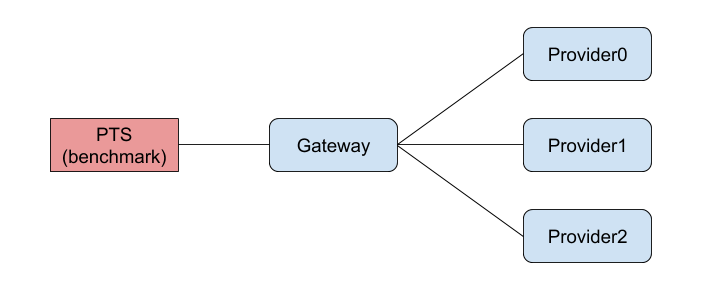
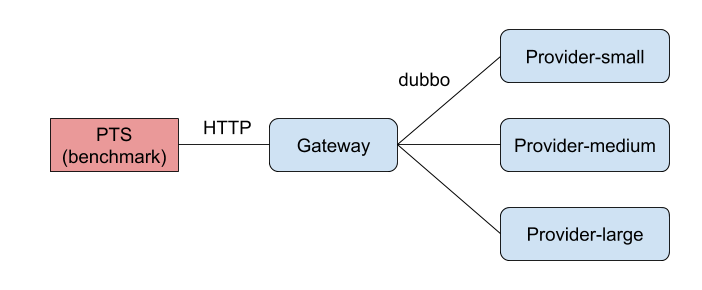
Update images

diff --git a/README.MD b/README.MD
@@ -31,7 +31,7 @@ TBD
 
 ![service_architect](assets/service-architect.png)
 
-- 所有程序均在 docker 容器中运行
+- 所有程序均在不同的 docker 容器中运行,每个容器都独占运行在不同的物理机上：
 - Gateway 负责将请求转发至 Provider；
 - Provider 处理请求返回响应；
 - Provider 按照 CPU 核数和内存大小分为 Small、Medium、Large 三个规格；
